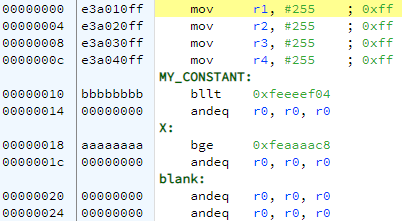
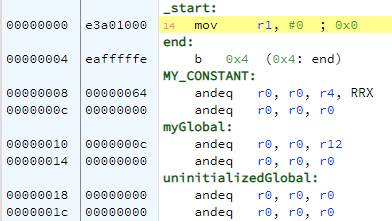
Memory updates

diff --git a/_sources/Memory/Sections.rst b/_sources/Memory/Sections.rst
@@ -7,7 +7,7 @@ Sections
 .. index:: section
 
 
-Assembled code is broken into logical sections that serve various purposes. The bits that represent instructions must be 
+Assembled code is broken into logical sections that are used in different ways. The bits that represent instructions must be 
 executable but should generally not be writable. The bits that represent data should be readable and writable but may not make
 sense to execute. 
 
@@ -22,38 +22,33 @@ Directives are used to specify what section various parts of an assembly program
 
 .. armcode::  
 
-    .section       .text
-    @Do nothing...
-    MOV   r1, #0xFF
-    MOV   r2, #0xFF
+   .section       .data
+   myGlobal:      .word   0xC
 
-    .section       .data
-    X:              .word   0xAAAAAAAA
+   .section       .rodata
+   MY_CONSTANT:   .word   0x64
 
-    .section       .rodata
-    MY_CONSTANT:   .word    0xBBBBBBBB
+   .section       .bss
+   uninitializedGlobal:   .space  4
 
-    .section       .bss
-    @create 4 bytes of space
-    blank:          .space  4
+   .text
+   .global _start
+   _start:
+   @Do nothing...
+   MOV   r1, #0
 
-    .section       .text
-    @Do nothing...
-    MOV   r3, #0xFF
-    MOV   r4, #0xFF
-
+   end:  b end       @stop program
 
 That code gets build into what is shown below. Some things to note:
 
-* All the information in a particular section gets recombined - all four of the ``MOV`` instructions end up in one block in the assembled program.
 * The sections appear in a specific order: ``text``, ``rodata``, ``data``, then ``bss``.
-* Sections may be **padded** with extra 0's to make them occupy a number of bytes that is some specific power of 2. In other words, each section must end at a byte number that is divisible by 4 or 8 and extra 0's are used to make that happen. We can see that below at the end of the .data, .bss. and .rodata sections.
+* Sections may be **padded** with extra 0's to make them occupy a number of bytes that is some specific power of 2. We can see this below at the end of the .data, .bss. and .rodata sections: they have all been padded so that the next section starts at an address that is a multiple of 8.
 
 
 .. image:: Images/sections.png
 
 
-.. warning:: 
+.. note:: 
 
-    It is critical that code be placed in ``text`` and data in ``data``. Most of the time, this tutorial will stick to using just
-    those two sections.
+    Most of the time, this tutorial will stick to using just using ``.data`` for 
+    all data and ``.text`` for the code. We will generally not use ``.rodata`` or ``.bss``.

diff --git a/_sources/Memory/LoadStore.rst b/_sources/Memory/LoadStore.rst
@@ -42,19 +42,20 @@ can hold the full 32 bit value.
    
    end:  b end       @stop program
 
+.. note::
 
-If you look closely at the assembled version of that code, you will notice that in the assembled version, the ``=x`` has been replaced 
-by ``[pc, #4]``. 
+   If you look closely at the assembled version of that code, you will notice that in the assembled version, the ``=x`` has been replaced 
+   by ``[pc, #4]``. 
 
-.. figure:: Images/load.png
+   .. figure:: Images/load.png
 
 
-**[pc, #4]** means 4 bytes past where the Program Counter currently is. When the first LDR runs, the program counter will be 00000000 
-(the address of that instruction). In early version of the ARM architecture, the PC would actually be 8 bytes past that when the instruction 
-executed. So the final address would be 0x00000000 + 4 + 8 = 12 = 0xC. If you look at address 0000000C, it contains the data 0x00000010. 
-0x00000010 is in fact the address of **x**. The assembler has: 1) calculated the address of **x**; 2) stored that value in memory at the end of 
-the .text; 3) set the first LDR to load that value. That is all fairly complex, but most of the time, we do not have to worry about the 
-mechanics. We just use ``LDR rd, =LABEL`` and count on the assembler to manage the details.
+   **[pc, #4]** means 4 bytes past where the Program Counter currently is. When the first LDR runs, the program counter will be 00000000 
+   (the address of that instruction). In early version of the ARM architecture, the PC would actually be 8 bytes past that when the instruction 
+   executed. So the final address would be 0x00000000 + 4 + 8 = 12 = 0xC. If you look at address 0000000C, it contains the data 0x00000010. 
+   0x00000010 is in fact the address of **x**. The assembler has: 1) calculated the address of **x**; 2) stored that value in memory at the end of 
+   the .text; 3) set the first LDR to load that value. That is all fairly complex, but most of the time, we do not have to worry about the 
+   mechanics. We just use ``LDR rd, =LABEL`` and count on the assembler to manage the details.
 
 Loading an Immediate
 --------------------------------

diff --git a/_sources/Memory/Data.rst b/_sources/Memory/Data.rst
@@ -20,11 +20,13 @@ We use the **.align** directive to say *"fill out this word of memory"* with 0's
 
 .. warning::
 
-   Failure to align memory when switching between bytes and words is a common mistake. The program will assemble just fine, but 
+   Failure to align memory when switching between bytes and words is a common mistake. 
+   The program will assemble just fine, but 
    when a load instruction tries to access miss-aligned memory, there will be an error. 
    
-   When in doubt, add ``.align`` after 
-   each chunk of data. Extra aligns are ignored, so better safe than sorry.
+   When in doubt, add ``.align`` any time you have allocated some bytes and need to switch 
+   to allocating words. If you use an ``.align`` when the next chunk of memory would 
+   already be aligned, the directive will be safely ignored.
 
 Here are some samples of using the data and align directives:
 
@@ -50,7 +52,7 @@ Here are some samples of using the data and align directives:
 
    @g: starts a new word
    g:    .byte    0x12
-
+   
    .text
    MOV r1, r1   @do nothing
 
